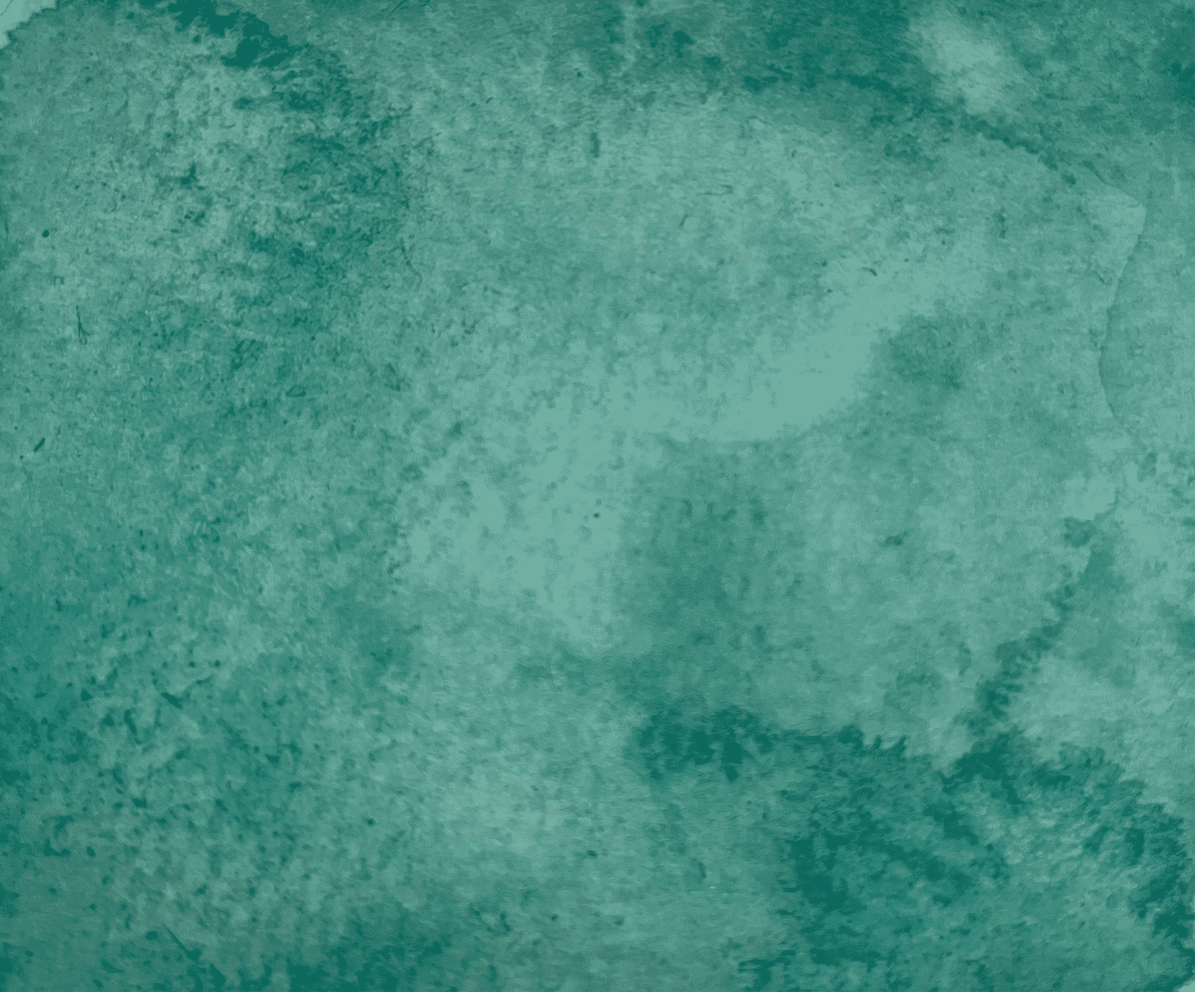
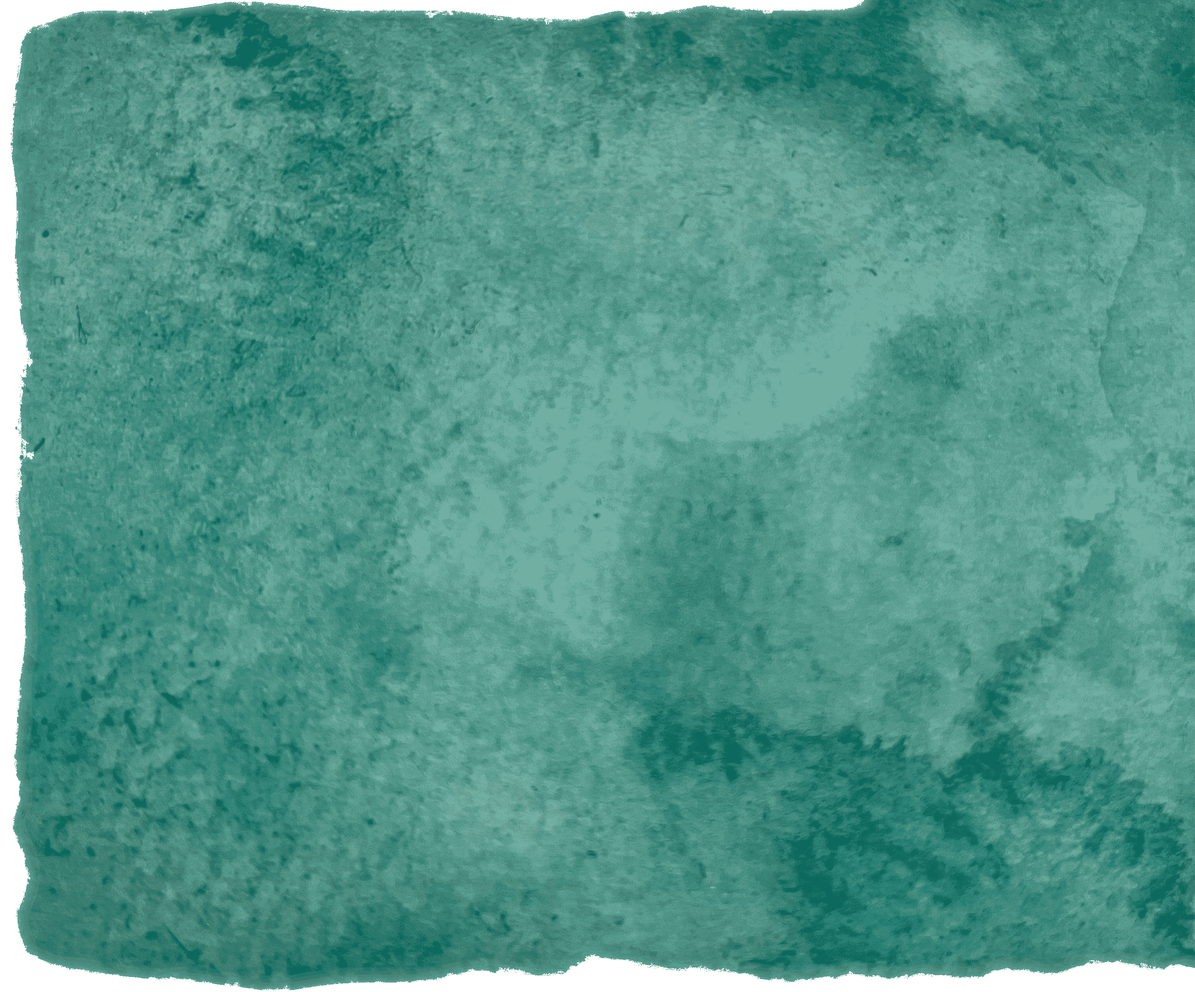
backgrounds updated in login & home

Changed region(s): [[0.0, 0.0, 1.0, 1.0]]

diff --git a/client/src/pages/LoginAndRegistration/_login.scss b/client/src/pages/LoginAndRegistration/_login.scss
@@ -9,19 +9,15 @@
   min-height: 100vh;
 
   .container {
-    background-color: #f9edca;
     margin-top: 1.25rem;
     position: relative;
-    overflow: hidden;
-    border-radius: 5rem;
-    box-shadow: 0 14px 28px rgba(0, 0, 0, 0.25), 0 10px 10px rgba(0, 0, 0, 0.22);
     width: 66%;
     min-width: 70rem;
-    height: 65rem;
+    height: 72rem;
 
     .sign-in-container {
-      @include bg-img-paper;
-      background-size: 110%;
+      background-image: url("../../assets/images/pap-left.png");
+      @include bg-center;
       height: 100%;
       position: absolute;
       top: 0;
@@ -35,7 +31,6 @@
         text-align: center;
         height: 100%;
         padding: 0 2.5rem 0 2.5rem;
-
         h1 {
           font-size: $font-size-md;
           line-height: 4.25rem;
@@ -82,8 +77,8 @@
     }
 
     .sign-up-container {
-      @include bg-img-paper;
-      background-size: 110%;
+      background-image: url("../../assets/images/pap-right.png");
+      @include bg-center;
       height: 100%;
       position: absolute;
       top: 0;
@@ -95,7 +90,6 @@
 
       .sign-up-form {
         @include flex-center;
-        background-color: $light-bg;
         text-align: center;
         height: 100%;
         padding: 0 2.5rem 0 2.5rem;
@@ -166,10 +160,8 @@
     z-index: 100;
 
     .overlay {
-      background-image: url("../../assets/images/b-1.png");
-      background-repeat: no-repeat;
-      background-size: cover;
-      background-position: center;
+      background-image: url("../../assets/images/blue-log.png");
+      @include bg-center;
       color: $light-txt;
       position: relative;
       left: -100%;
@@ -249,7 +241,7 @@
 
 .submit-btn-light {
   background-image: $bg-paper;
-  background-position: center;
+  @include bg-center;
   margin: 2rem;
   padding: 0.5rem 2rem;
   border-radius: 5rem;

diff --git a/client/src/pages/Home/_story.scss b/client/src/pages/Home/_story.scss
@@ -5,20 +5,23 @@
 
 .story {
   @include flex-center;
+  background-image: url("../../assets/images/blue-log.png");
+  @include bg-center;
+  background-size: 100%;
+  width: 90rem;
+  height: 70rem;
+  padding-bottom: 5rem;
   .story-title {
     @include flex-center;
     text-align: center;
     font-family: $font-title;
-    font-size: $font-size-md;
-    margin: 2rem;
-    height: 20rem;
-    width: 90%;
+    height: 18rem;
+    font-size: 3.2rem;
+    width: 80%;
     color: $light-txt;
-    @media screen and (max-width: $tablet) {
-      font-size: 3rem;
-    }
+
     button {
-      margin-top: 2rem;
+      margin-bottom: 1rem;
       animation: pulse 2s infinite linear alternate;
       font-size: 6rem;
       color: $light-txt;
@@ -34,9 +37,8 @@
     font-size: $font-size-xs;
     @include flex-center;
     background-image: url("../../assets/images/paper-journal.png");
-    background-position: center;
-    background-size: cover;
-    height: 25rem;
+    @include bg-center;
+    height: 30rem;
     width: 60rem;
     position: relative;
     text-align: justify;
@@ -56,8 +58,7 @@
     animation: show-text 1.5s ease-in both 1.5s;
     cursor: pointer;
     div {
-      background-position: center;
-      background-size: cover;
+      @include bg-center;
       @include center-fixed;
     }
     div:nth-child(1) {
@@ -102,8 +103,7 @@
   left: 46%;
   top: 18%;
   background-image: url("../../assets/images/blob_2.png");
-  background-position: center;
-  background-size: cover;
+  @include bg-center;
   height: 110px;
   width: 100px;
   animation: enter-text 0.5s cubic-bezier(0.25, 0.46, 0.45, 0.94) both 0.5s;

diff --git a/client/src/pages/Home/Home.jsx b/client/src/pages/Home/Home.jsx
@@ -46,20 +46,17 @@ const Home = () => {
               backgroundColor: "rgba(204, 196, 157, 0.5)",
             },
             content: {
-              left: "15%",
-              right: "15%",
-              top: "10%",
-              height: "80vh",
               border: "none",
-              backgroundColor: "transparent"
+              backgroundColor: "transparent",
             },
           }}
         >
-          <div className="story-overlay"><Story closeModal={closeModal} />
-          <button className="closeModal" onClick={closeModal}>
-            Back to home
-          </button>
-        </div>
+          <div className="story-overlay">
+            <Story closeModal={closeModal} />
+            <button className="closeModal" onClick={closeModal}>
+              Back to home
+            </button>
+          </div>
         </Modal>
       </div>
       <div>

diff --git a/client/src/assets/scss/_variables.scss b/client/src/assets/scss/_variables.scss
@@ -7,7 +7,6 @@ $dark: rgb(2, 2, 85);
 
 $font-size-xs: 1.6rem;
 $font-size-sm: 2rem;
-$font-size-m: 2.4rem;
 $font-size-md: 4.2rem;
 $font-size-lg: 18rem;
 
@@ -15,13 +14,14 @@ $font-main: "SeoulHangang";
 $font-title: "Rochester";
 
 $bg-map: url("../images/map.jpg");
-$bg-paper: url("../images//paper.png");
-$bg-paper-horizontal: url("../images/paper-horizontal.png");
+$bg-paper: url("../images/pap-1.png");
+$bg-paper-horizontal: url("../images/pap-hor.png");
 $bg-button: url("../../assets/images/d-green-btn.jpg");
 $bg-overlay: rgba(204, 196, 157, 0.5);
 
 $shadow-btn: -3px 2px 15px 1px rgba(99, 96, 91, 0.56);
 $shadow-badge: -3px 2px 20px 1px rgba(61, 60, 58, 0.384);
 $shadow-modal: 0px 2px 15px 5px rgba(31, 30, 29, 0.904);
+$shadow-btn-dark: 0px 2px 15px 5px rgba(45, 75, 87, 0.822);
 
 $tablet: 1800px;

diff --git a/client/src/assets/scss/_mixin.scss b/client/src/assets/scss/_mixin.scss
@@ -67,12 +67,12 @@
 @mixin btn-modal {
   background-position: center;
   background-size: cover;
-  background-color: $light-txt;
+  background-color: rgb(250, 233, 210);
   font-size: $font-size-xs;
   color: $dark;
   padding: 0.5rem 2rem;
   border-radius: 5rem;
-  box-shadow: $shadow-btn;
+  box-shadow: $shadow-btn-dark;
 }
 
 @mixin center-fixed {
@@ -142,4 +142,10 @@
   :active {
     border: 3px $primary solid;
   }
+}
+
+@mixin bg-center {
+  background-size: cover;
+  background-repeat: no-repeat;
+  background-position: center;
 }

diff --git a/client/src/pages/MyBadges/_myBadges.scss b/client/src/pages/MyBadges/_myBadges.scss
@@ -26,10 +26,11 @@
       .grayscale {
         filter: grayscale(100%);
       }
-
-      background-image: url("../../assets/images/paper.png");
-      background-size: contain;
-      background-repeat: no-repeat;
+      @include bg-img-paper;
+      //border-radius: 5rem;
+      // background-image: url("../../assets/images/paper.png");
+      // background-size: contain;
+      // background-repeat: no-repeat;
       width: 30rem;
       height: 40rem;
       margin: 1rem;

diff --git a/client/src/pages/Home/_home.scss b/client/src/pages/Home/_home.scss
@@ -20,20 +20,14 @@
     @include btn-green;
   }
 }
-
 .story-overlay {
-  height: 100%;
-  background-image: url("../../assets/images/b-1.png");
-  box-shadow: $shadow-modal;
-  background-position: center;
-  background-size: 110%;
-  border-radius: 5rem;
-  padding: 2rem;
+  @include center-fixed;
 }
+
 .closeModal {
   @include btn-modal;
   position: absolute;
-  bottom: 5%;
+  bottom: 5rem;
   left: 50%;
   transform: translate(-50%, -50%);
 }

diff --git a/client/src/pages/ForgetAndResetPassword/_forgetAndResetPassword.scss b/client/src/pages/ForgetAndResetPassword/_forgetAndResetPassword.scss
@@ -4,13 +4,11 @@
 @import "../../assets/scss/mixin";
 
 .forget-reset-password {
-  @include bg-img-paper;
-  background-size: 110%;
+  background-image: url("../../assets/images/pap-hor.png");
+  @include bg-center;
   text-align: center;
-  height: 48rem;
-  border-radius: 50px;
+  height: 46rem;
   min-width: 60rem;
-  box-shadow: 0 14px 28px rgba(0, 0, 0, 0.25), 0 10px 10px rgba(0, 0, 0, 0.22);
   @include flex-center;
 
   h1 {

diff --git a/client/src/hoc/Navigation/_sidebar.scss b/client/src/hoc/Navigation/_sidebar.scss
@@ -4,7 +4,12 @@
 @import "../../assets/scss/mixin";
 
 .sidebar {
-  @include bg-img-paper;
+  //@include bg-img-paper;
+
+  background-image: url("../../assets/images/pap-1.png");
+  background-position: center;
+  background-size: 110%;
+  border-radius: 5rem 0rem 0rem 5rem;
   position: fixed;
   background-size: cover;
   background-position: 0%;

diff --git a/client/src/pages/LoginAndRegistration/LoginAndRegistration.jsx b/client/src/pages/LoginAndRegistration/LoginAndRegistration.jsx
@@ -236,7 +236,7 @@ const LoginAndRegistration = () => {
                 id="signUp"
                 className="submit-btn-light"
               >
-                To sign up
+                Go to sign up
               </button>
             </div>
           </div>
